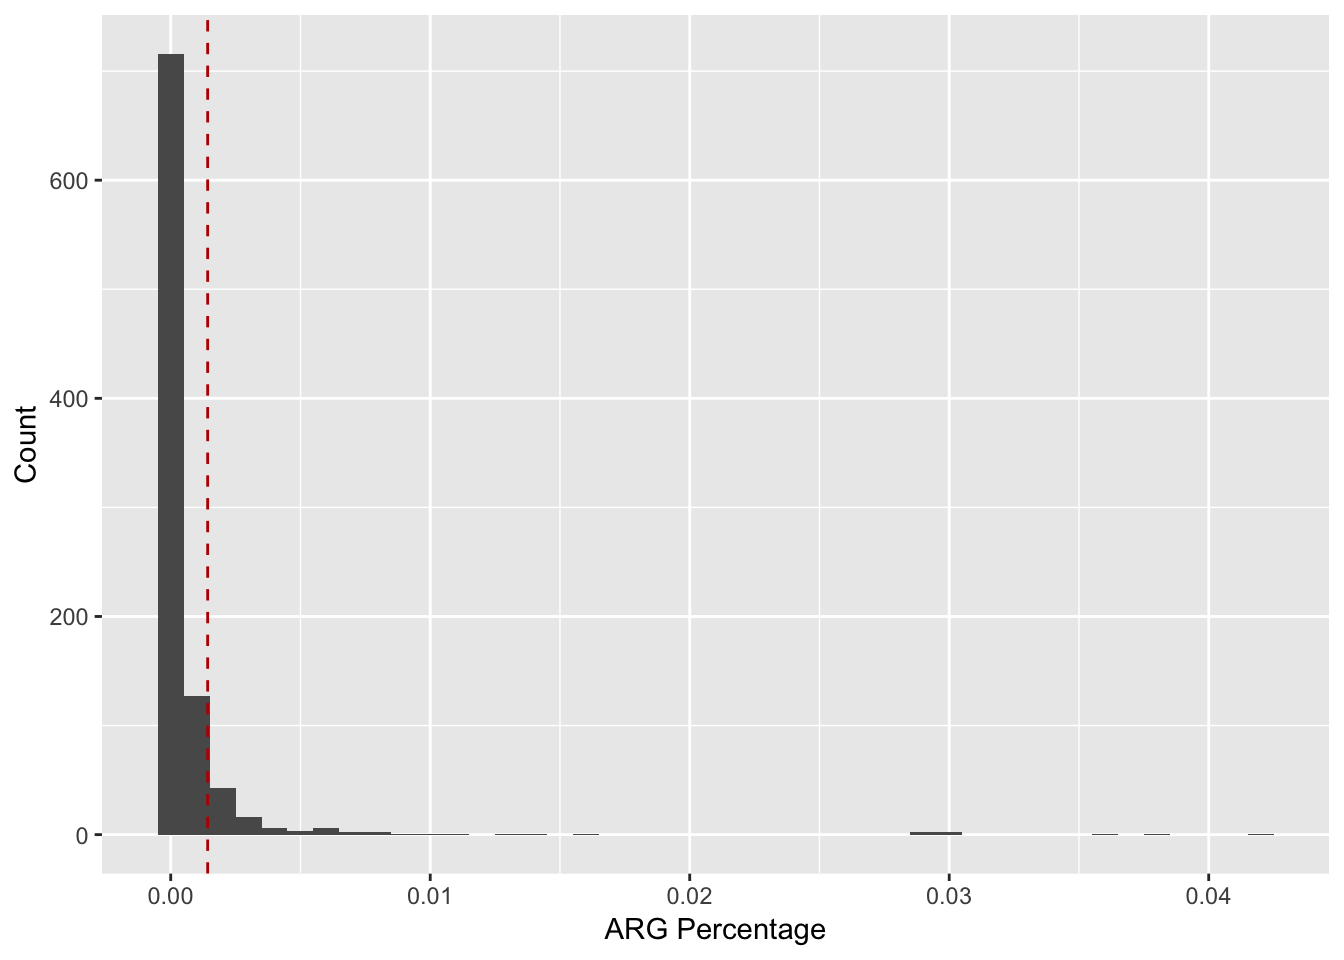
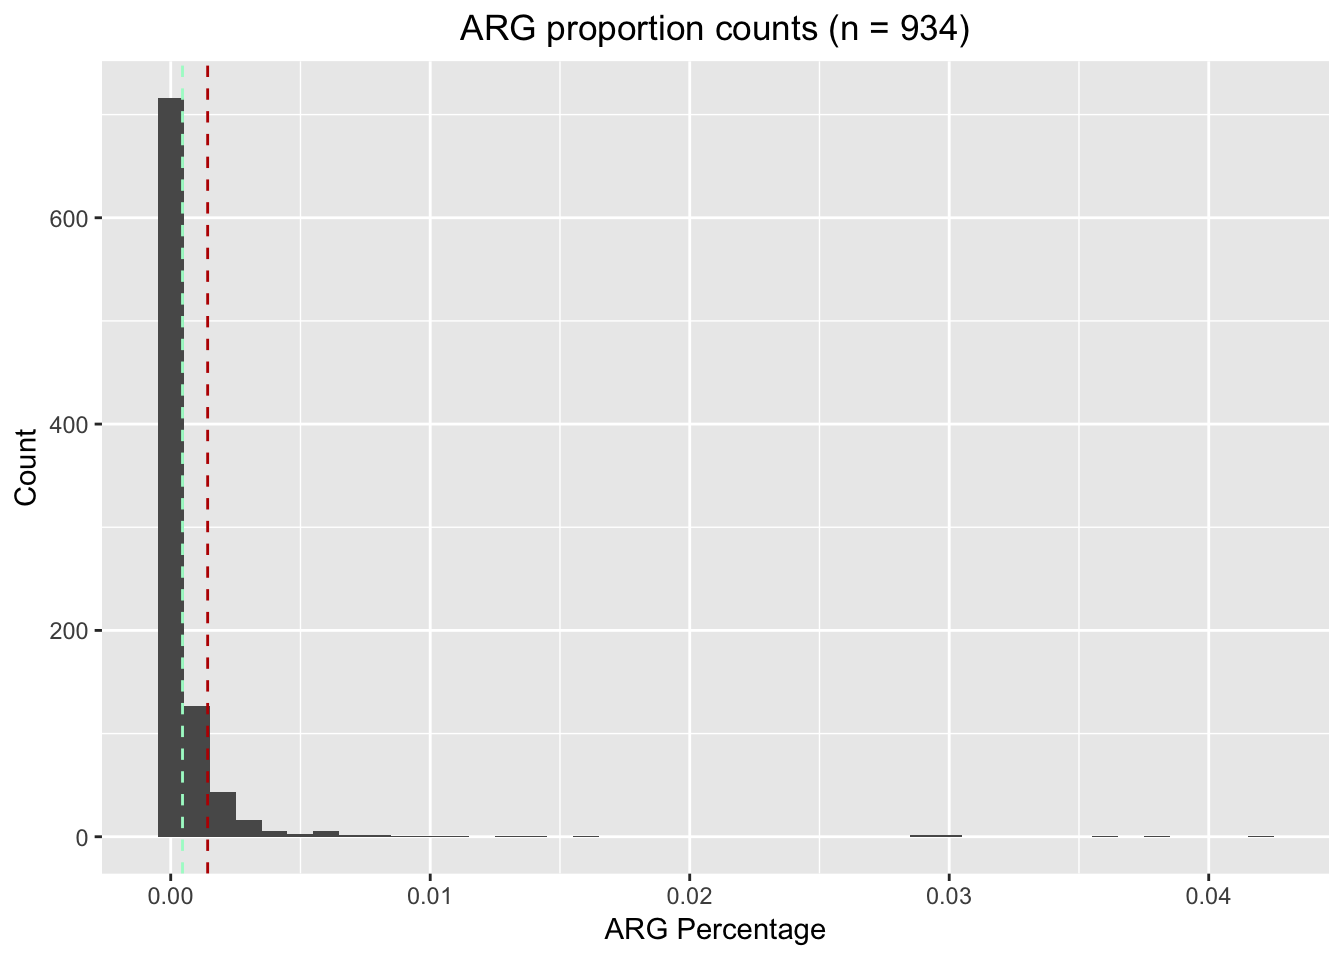
Add metadata charts

diff --git a/docs/data_exploration.html b/docs/data_exploration.html
@@ -348,7 +348,9 @@ head(arg_subset_info)</code></pre>
 <pre class="r"><code>proportion = 0.1
 cutoff = quantile((sort(arg_subset_info$arg_percent)), 1 - proportion)</code></pre>
 <pre class="r"><code>ggplot(data.frame(val = arg_subset_info$arg_percent), aes(val)) + geom_histogram(binwidth = 0.001) +
-  labs(x = &quot;ARG Percentage&quot;, y = &quot;Count&quot;) +
+  labs(x = &quot;ARG Percentage&quot;, y = &quot;Count&quot;, title = &quot;ARG proportion counts (n = 934)&quot;) +
+  theme(plot.title = element_text(hjust = 0.5)) +
+  geom_vline(xintercept = 4.545e-04, colour = &quot;#a9f9cd&quot;, linetype = &quot;dashed&quot;) +
   geom_vline(xintercept = cutoff, colour = &quot;#BB0000&quot;, linetype = &quot;dashed&quot;) </code></pre>
 <p><img src="images/add_arg_ratio_column.2-1.png" width="672" /> ## Cooccurrence Data</p>
 <p><code>arg_cooccurrence.tsv</code> contains the cooccurrence data (ie, <a href="https://en.wikipedia.org/wiki/Spearman%27s_rank_correlation_coefficient">Spearman’ correlation</a>) for all the ARGs found in <code>arg_datasets.subset.tsv</code>.</p>
@@ -425,7 +427,17 @@ gr_neg_cooccurrence &lt;- graph.data.frame(positive_arg_cooccurrence, directed =
 }</code></pre>
 <div id="low-arg-percentage" class="section level3">
 <h3>Low ARG percentage</h3>
-<pre class="r"><code>low.arg_subset_info &lt;- read.table(&quot;data/raw/arg_subsets/arg_datasets.subset.low.tsv&quot;, sep = &quot;\t&quot;, header = TRUE)</code></pre>
+<pre class="r"><code>low.arg_subset_info &lt;- read.table(&quot;data/raw/arg_subsets/arg_datasets.subset.low.tsv&quot;, sep = &quot;\t&quot;, header = TRUE)
+ggplot(data.frame(low.arg_subset_info), aes(biome)) + geom_bar() +
+  labs(x = element_blank(), y = element_blank(), title = &quot;Biome counts: Low ARG Prevalence (n = 700)&quot;) +
+  theme(plot.title = element_text(hjust = 0.5), plot.subtitle = element_text(hjust = 0.5), 
+        axis.text.x = element_text(angle = 45, hjust = 1))</code></pre>
+<p><img src="images/low.cooc.1-1.png" width="672" /></p>
+<pre class="r"><code>ggplot(data.frame(low.arg_subset_info), aes(environment_package)) + geom_bar() +
+  labs(x = element_blank(), y = element_blank(), title = &quot;Environment counts: Low ARG Prevalence (n = 700)&quot;) +
+  theme(plot.title = element_text(hjust = 0.5), plot.subtitle = element_text(hjust = 0.5), 
+        axis.text.x = element_text(angle = 45, hjust = 1))</code></pre>
+<p><img src="images/low.cooc.2-1.png" width="672" /></p>
 <pre class="r"><code>arg_cooccurrence.low &lt;- read.table(&quot;data/raw/cooccurrences/arg_cooccurrence.low.tsv&quot;, 
                                 col.names = c(&quot;ARG_1&quot;, &quot;ARG_2&quot;, &quot;rho&quot;, &quot;p&quot;))
 arg_cooccurrence.low &lt;- arg_cooccurrence.low[, -4]
@@ -497,7 +509,17 @@ ggplot(data.frame(val = low.bootstraps), aes(val)) + geom_histogram(binwidth = 0
 </div>
 <div id="medium-arg-percentage" class="section level3">
 <h3>Medium ARG percentage</h3>
-<pre class="r"><code>med.arg_subset_info &lt;- read.table(&quot;data/raw/arg_subsets/arg_datasets.subset.med.tsv&quot;, sep = &quot;\t&quot;, header = TRUE)</code></pre>
+<pre class="r"><code>med.arg_subset_info &lt;- read.table(&quot;data/raw/arg_subsets/arg_datasets.subset.med.tsv&quot;, sep = &quot;\t&quot;, header = TRUE)
+ggplot(data.frame(med.arg_subset_info), aes(biome)) + geom_bar() +
+  labs(x = element_blank(), y = element_blank(), title = &quot;Biome counts: Medium ARG Prevalence (n = 140)&quot;) +
+  theme(plot.title = element_text(hjust = 0.5), plot.subtitle = element_text(hjust = 0.5), 
+        axis.text.x = element_text(angle = 90, hjust = 1))</code></pre>
+<p><img src="images/med.cooc.1-1.png" width="672" /></p>
+<pre class="r"><code>ggplot(data.frame(med.arg_subset_info), aes(environment_package)) + geom_bar() +
+  labs(x = element_blank(), y = element_blank(), title = &quot;Environment counts: Medium ARG Prevalence (n = 140)&quot;) +
+  theme(plot.title = element_text(hjust = 0.5), plot.subtitle = element_text(hjust = 0.5), 
+        axis.text.x = element_text(angle = 90, hjust = 1))</code></pre>
+<p><img src="images/med.cooc.2-1.png" width="672" /></p>
 <pre class="r"><code>arg_cooccurrence.med &lt;- read.table(&quot;data/raw/cooccurrences/arg_cooccurrence.med.tsv&quot;, 
                                 col.names = c(&quot;ARG_1&quot;, &quot;ARG_2&quot;, &quot;rho&quot;, &quot;p&quot;))
 arg_cooccurrence.med &lt;- arg_cooccurrence.med[, -4]
@@ -563,7 +585,17 @@ ggplot(data.frame(val = med.bootstraps), aes(val)) + geom_histogram(binwidth = 0
 </div>
 <div id="high-arg-percentage" class="section level3">
 <h3>High ARG percentage</h3>
-<pre class="r"><code>high.arg_subset_info &lt;- read.table(&quot;data/raw/arg_subsets/arg_datasets.subset.high.tsv&quot;, sep = &quot;\t&quot;, header = TRUE)</code></pre>
+<pre class="r"><code>high.arg_subset_info &lt;- read.table(&quot;data/raw/arg_subsets/arg_datasets.subset.high.tsv&quot;, sep = &quot;\t&quot;, header = TRUE)
+ggplot(data.frame(high.arg_subset_info), aes(biome)) + geom_bar() +
+  labs(x = element_blank(), y = element_blank(), title = &quot;Biome counts: High ARG Prevalence (n = 94)&quot;) +
+  theme(plot.title = element_text(hjust = 0.5), plot.subtitle = element_text(hjust = 0.5), 
+        axis.text.x = element_text(angle = 135, hjust = 1))</code></pre>
+<p><img src="images/high.cooc.1-1.png" width="672" /></p>
+<pre class="r"><code>ggplot(data.frame(high.arg_subset_info), aes(environment_package)) + geom_bar() +
+  labs(x = element_blank(), y = element_blank(), title = &quot;Biome counts: High ARG Prevalence (n = 94)&quot;) +
+  theme(plot.title = element_text(hjust = 0.5), plot.subtitle = element_text(hjust = 0.5), 
+        axis.text.x = element_text(angle = 135, hjust = 1))</code></pre>
+<p><img src="images/high.cooc.2-1.png" width="672" /></p>
 <pre class="r"><code>arg_cooccurrence.high &lt;- read.table(&quot;data/raw/cooccurrences/arg_cooccurrence.high.tsv&quot;, 
                                 col.names = c(&quot;ARG_1&quot;, &quot;ARG_2&quot;, &quot;rho&quot;, &quot;p&quot;))
 arg_cooccurrence.high &lt;- arg_cooccurrence.high[, -4]
